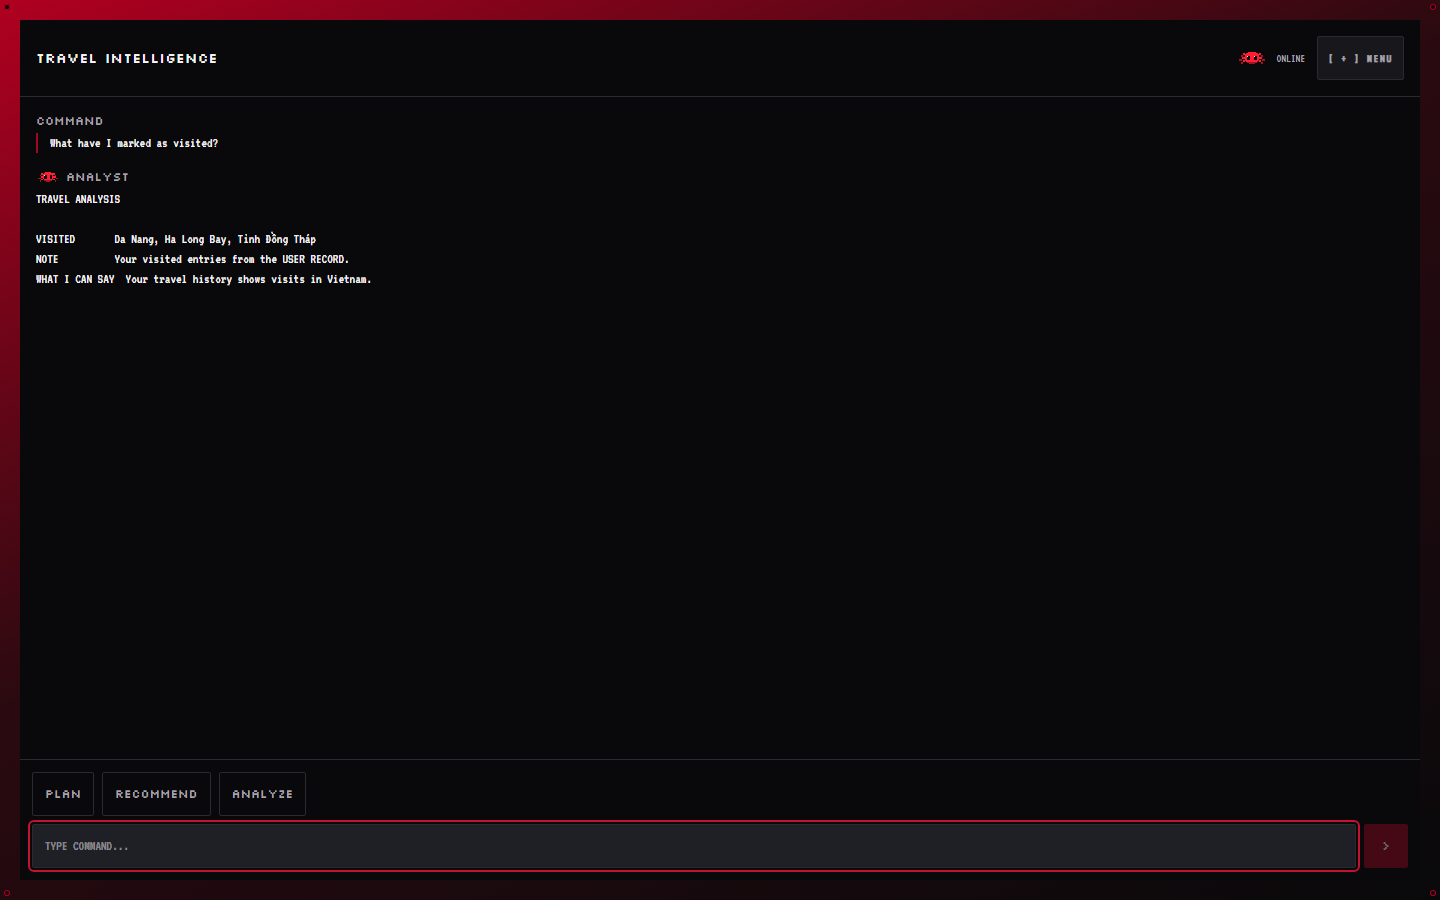
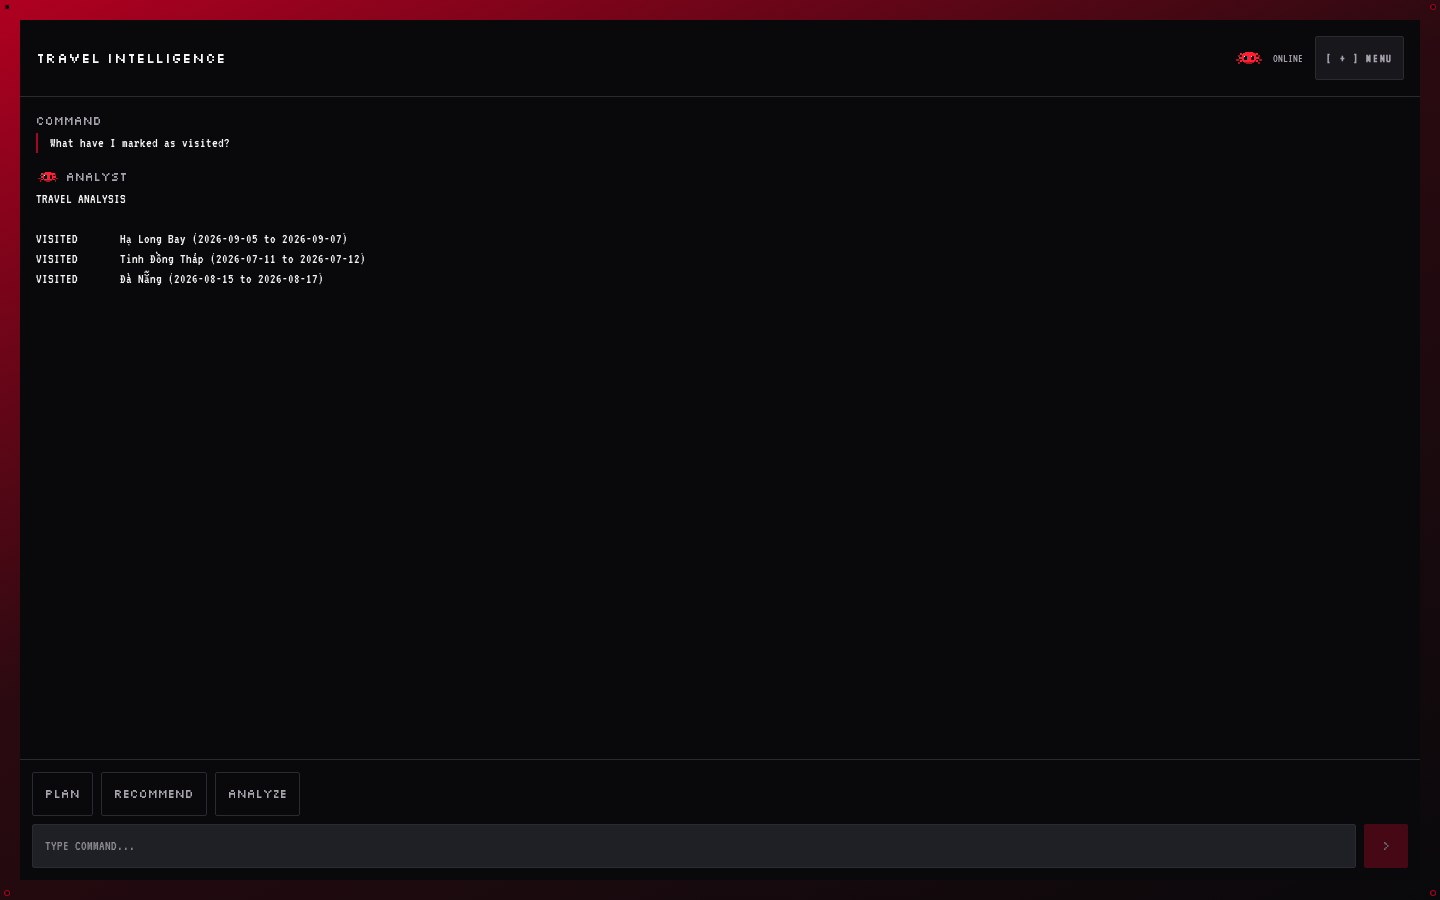
docs: retake README screenshots and describe Collection, day detail, sound
Screenshots now come from the current build with a consistent demo
dataset (three trips, six places, six events), including all three pin
statuses. Adds the Collection and Day Detail shots, and notes the theme
and optional sound settings.

diff --git a/README.md b/README.md
@@ -21,12 +21,25 @@ not silently ignored.
   <img src="docs/screenshots/02-map-place-confirm.png" width="100%" alt="Tapping a pin brings up a confirmation card before opening the full detail" />
 </p>
 
+**A collection you can read in order.** The map is organised by place; a trip is remembered by
+time. `Collection` lists the same destinations newest-first — filter by status or category, tap an
+entry and the map flies to its pin and opens it. It's a second presentation of what's already
+loaded, so there's nothing extra to keep in sync.
+
+<p align="center">
+  <img src="docs/screenshots/07-collection.png" width="100%" alt="The Travel Collection: every place newest-first, filterable by status and category" />
+</p>
+
 **A schedule for what's ahead.** `/schedule` lays Trips and travel events — flights, stays,
 activities, food, notes — onto a real month calendar, with a trip timeline and a per-day detail
-sheet. It's a second view of the same data the map holds, not a separate thing to keep in sync.
+sheet. A new entry joins whichever Trip covers its date, and deleting one takes two taps. It's a
+second view of the same data the map holds, not a separate thing to keep in sync.
 
 <p align="center">
   <img src="docs/screenshots/03-schedule.png" width="100%" alt="The travel schedule calendar with trips and events marked" />
+</p>
+<p align="center">
+  <img src="docs/screenshots/08-day-detail.png" width="100%" alt="A day's detail sheet: the trip it falls in, then its entries in time order" />
 </p>
 
 **An AI console that reads your actual trips.** `/intel` is a chat interface backed by any
@@ -42,6 +55,11 @@ marked as visited" by naming your actual places, not by guessing.
 **One privacy line, drawn on purpose and enforced by tests.** The AI reads everything about your
 destinations and trips *except* photographs and personal notes — those never leave the database.
 `backend/tests/test_ai_context.py` asserts the absence, not just the presence, of that boundary.
+
+**Dark or light, and sound only if you ask.** The menu holds a theme switch and an optional sound
+setting — off until you turn it on, remembered against the account, and paired with a small haptic
+tick on phones that support it. Saves and refusals get their own cues; navigating only ever gets a
+quieter one.
 
 <p align="center">
   <img src="docs/screenshots/06-login.png" width="100%" alt="The sign-in screen" />
@@ -95,7 +113,7 @@ fallback behaves.
 
 ```bash
 cd backend && uv run pytest                    # 291 tests
-cd frontend && pnpm exec playwright test        # ~356 tests across four projects
+cd frontend && pnpm exec playwright test        # 356 tests across four projects
 ```
 
 ## Project layout
